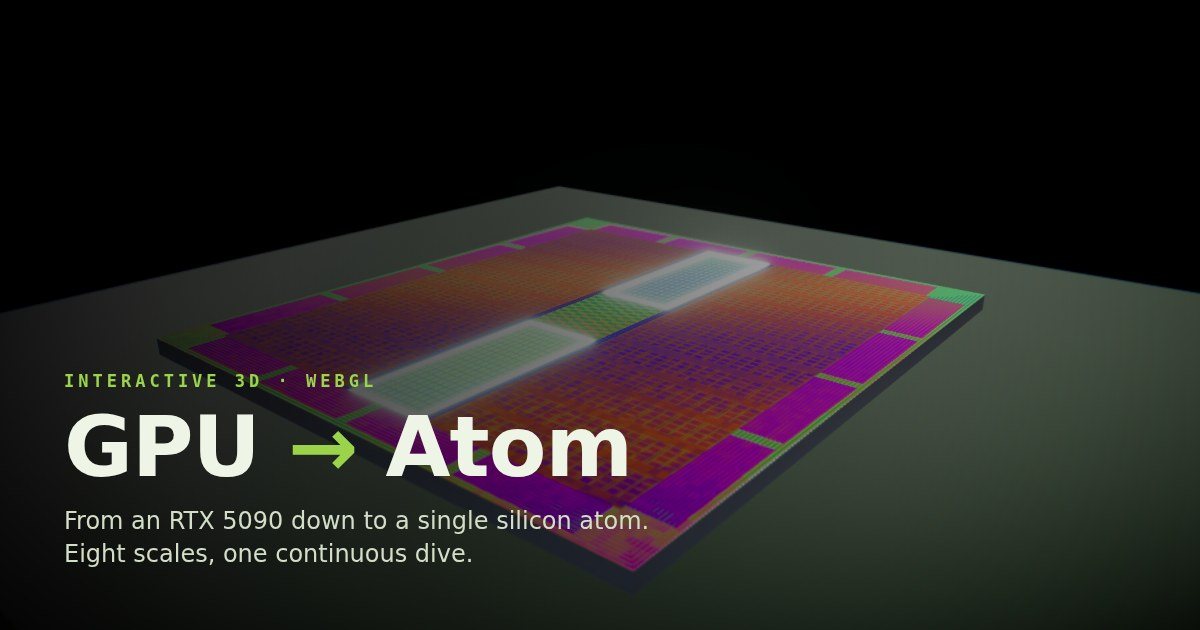
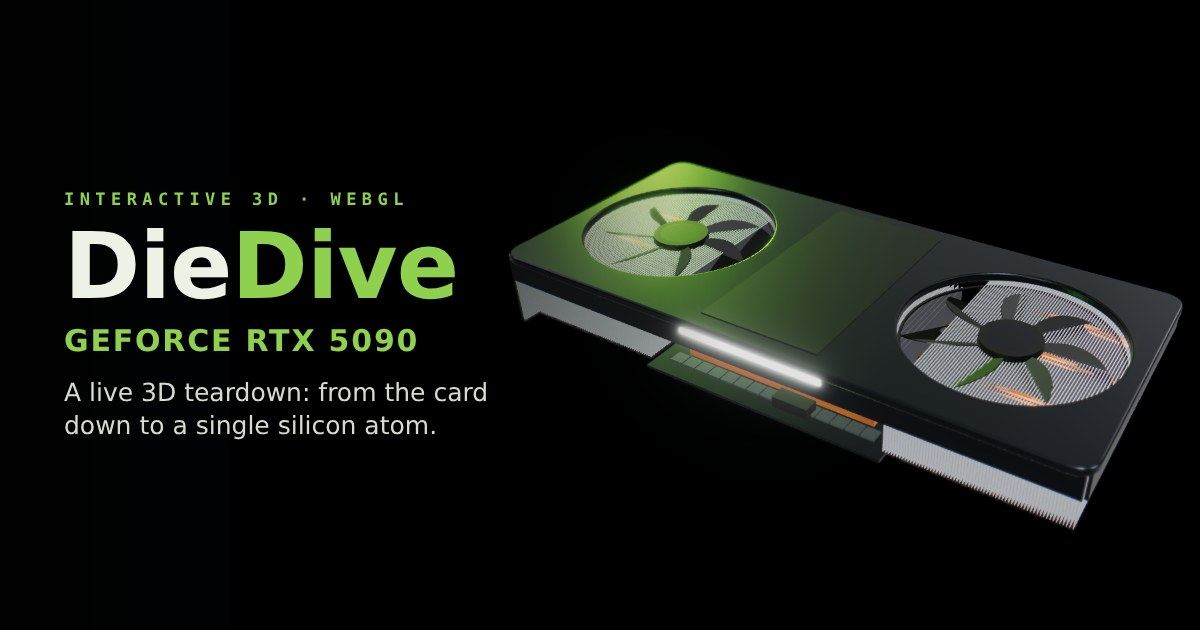
Regenerate og.jpg: the RTX 5090 card with the DieDive title
Adds scripts/make-og.mjs, which renders the share card from the live
card scene, and updates og:image:alt to match.

Claude-Session: https://claude.ai/code/session_01SBwbyXB7M6Utk5LiR4uaov

diff --git a/index.html b/index.html
@@ -56,7 +56,7 @@
     <meta property="og:image:type" content="image/jpeg" />
     <meta property="og:image:width" content="1200" />
     <meta property="og:image:height" content="630" />
-    <meta property="og:image:alt" content="The GB202 die rendered in 3D, with the title GPU → Atom" />
+    <meta property="og:image:alt" content="The GeForce RTX 5090 graphics card rendered in 3D, with the title DieDive" />
 
     <meta name="twitter:card" content="summary_large_image" />
     <meta name="twitter:title" content="DieDive: an interactive dive into an RTX 5090" />
